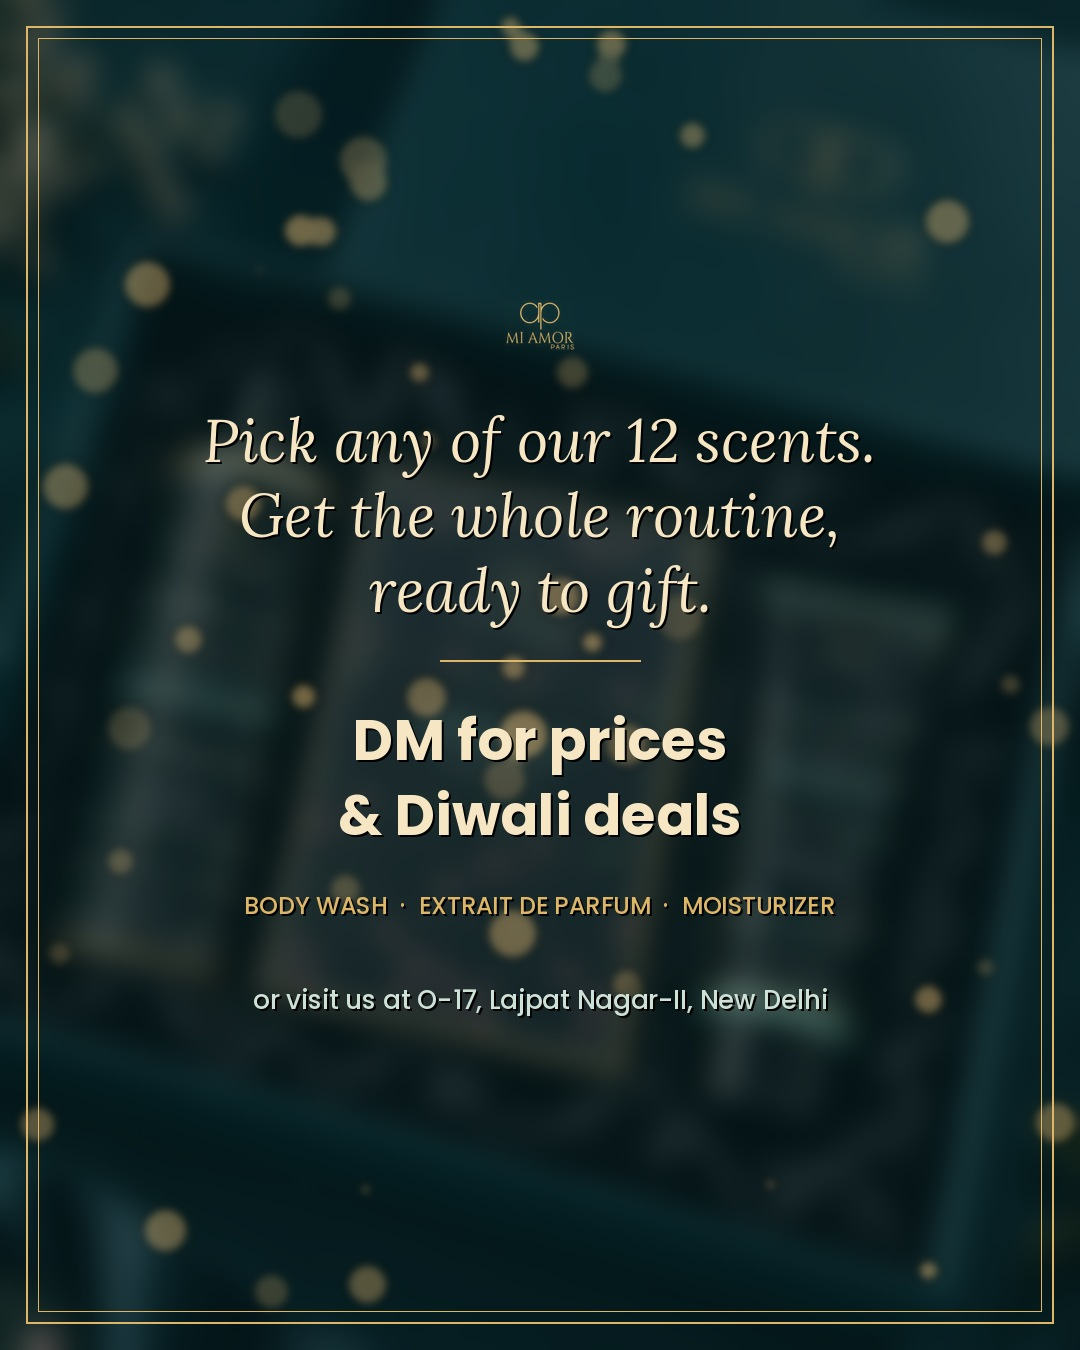
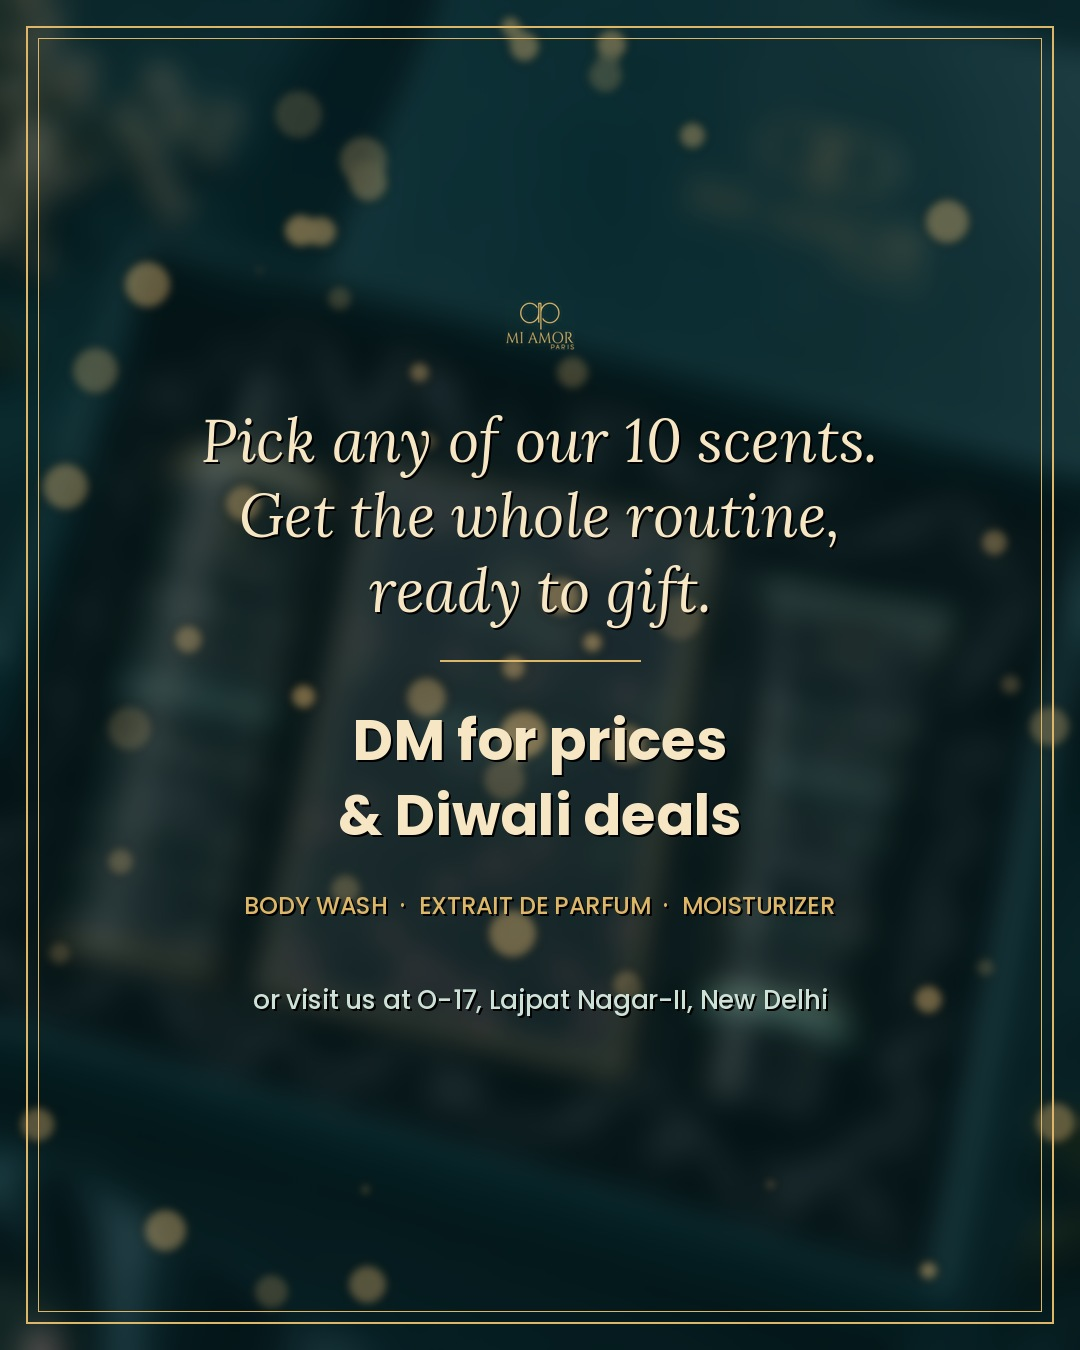
Gift boxes: 10 scents (no Ombre, no Miss Aqua)
Claude-Session: https://claude.ai/code/session_01QfcZgk1TCxQfFsu6yjKqLd

Changed region(s): [[0.1833, 0.3111, 0.7944, 0.3733]]

diff --git a/posts/2026-11-05-gift-boxes/build.py b/posts/2026-11-05-gift-boxes/build.py
@@ -1,4 +1,4 @@
-"""Diwali gift-box push: gift box in ANY of the 12 scents (Tannay), shown in Miss Poem and Bouquet (body wash + extrait de parfum + moisturizer), Tannay's own
+"""Diwali gift-box push: gift box in any of 10 scents (not Ombre, not Miss Aqua) (Tannay), shown in Miss Poem and Bouquet (body wash + extrait de parfum + moisturizer), Tannay's own
 styled photos (3 Nov). No prices: last slide 'DM for prices & Diwali deals'. Notes from the Shopify listings / weekly plan."""
 import random, numpy as np
 from PIL import Image, ImageDraw, ImageFont, ImageFilter
@@ -67,7 +67,7 @@ c(d, 196, "Body wash  ·  Extrait de parfum  ·  Moisturizer", pop(24), (200, 22
 bg = BQ.resize((1350, 1350), Image.LANCZOS).crop((135, 0, 1215, 1350)).filter(ImageFilter.GaussianBlur(14))
 im = Image.blend(bg, Image.new("RGB", bg.size, DTEAL), 0.55).convert("RGBA"); bokeh(im, (0, 0, W, H), 50, 5)
 frame(im); d = ImageDraw.Draw(im); logo(im, 70, 300)
-c(d, 440, "Pick any of our 12 scents.", lora(60, True), CHAMP); c(d, 515, "Get the whole routine,", lora(60, True), CHAMP); c(d, 590, "ready to gift.", lora(60, True), CHAMP)
+c(d, 440, "Pick any of our 10 scents.", lora(60, True), CHAMP); c(d, 515, "Get the whole routine,", lora(60, True), CHAMP); c(d, 590, "ready to gift.", lora(60, True), CHAMP)
 d.line((440, 660, 640, 660), fill=GOLD, width=2)
 c(d, 740, "DM for prices", pop(56, "Bold"), CHAMP); c(d, 815, "& Diwali deals", pop(56, "Bold"), CHAMP)
 c(d, 905, "BODY WASH  ·  EXTRAIT DE PARFUM  ·  MOISTURIZER", pop(24, "Medium"), GOLD)

diff --git a/ops/post_log.md b/ops/post_log.md
@@ -48,4 +48,4 @@ Note: carousels crop every slide to 4:5 (1080x1350). Make carousel slides and ca
 | 2026-11-01 19:30 | Handwash carousel MOVED from 30 Oct to make room for the Reel | Metricool 411107923 | scheduled |
 | 2026-11-02 19:30 | Feed: "Six evenings to Diwali" Oudh three-wick candle edit (Aleud, Abyad, Al Sandali, Alkhuzama, Zeenat e Oudh), 7-slide carousel (IG + FB) | Metricool 412766569 | scheduled 1 Nov by daily task; ₹1,749 (was ₹3,499) verified live. 2 Nov Stories already booked 28 Oct (IG only): 408820612, 408829335; their prices re-checked live (LIITA ₹1,999, Mr Aqua ₹1,499) |
 | 2026-11-03 19:30 | Feed: "Marhaba, the Diwali-party scent for him" (perfume 100 ml, Oudh shower gel 500 ml, 8 ml mini), 5-slide carousel (IG + FB), wine/gold rangoli + firework look | Metricool 414880060 (was 413712313, 414871718, 414877572; last slide now shower gel instead of 8 ml) | 3 Nov: REBUILT per Tannay as "Marhaba: Arabian nights, bottled" (unisex, Arabian set, no white backgrounds, + Oudh moisturizer, 5 slides); prices REMOVED from slides and caption per Tannay, last slide "DM for prices & Diwali deals". Originally scheduled 2 Nov by daily task; ₹1,499 (was ₹2,999), ₹749 (was ₹1,499), ₹199 (was ₹399) verified live. 3 Nov Stories already booked 28 Oct (IG only): 408820634, 408829361; prices re-checked live (Moksha ₹1,999, Mr Aqua ₹1,499, Moksha body wash ₹999) |
-| 2026-11-05 18:00 | Feed: "Diwali, beautifully boxed" gift boxes (Miss Poem box, Bouquet box), 4-slide carousel (IG + FB), Tannay's own photos | Metricool 414891003 (was 414888125) | scheduled 3 Nov at Tannay's request; gift box comes in ANY of the 12 scents (Miss Poem/Bouquet shown as examples); no prices, "DM for prices & Diwali deals". Replaces the minis post planned for Thu 5 Nov (minis move later). Gift boxes are NOT listed on Shopify, so no "link in bio" |
+| 2026-11-05 18:00 | Feed: "Diwali, beautifully boxed" gift boxes (Miss Poem box, Bouquet box), 4-slide carousel (IG + FB), Tannay's own photos | Metricool 414891003 (was 414888125) | scheduled 3 Nov at Tannay's request; gift box comes in 10 scents (not Ombré, not Miss Aqua) (Miss Poem/Bouquet shown as examples); no prices, "DM for prices & Diwali deals". Replaces the minis post planned for Thu 5 Nov (minis move later). Gift boxes are NOT listed on Shopify, so no "link in bio" |

diff --git a/ops/PLAYBOOK.md b/ops/PLAYBOOK.md
@@ -57,7 +57,7 @@ Warm, a little romantic, confident; a friend who knows fragrance. English
   `ops/price_backup_before_diwali.csv` for switching back.
 
 ## Gift boxes (Tannay, 3 Nov)
-- Body wash + extrait de parfum + moisturizer gift box, available in ANY of the 12 scents ("get the whole routine"). Not listed on Shopify yet: sell via DM / store, prices by DM.
+- Body wash + extrait de parfum + moisturizer gift box, available in 10 scents (all except Ombré and Miss Aqua) ("get the whole routine"). Not listed on Shopify yet: sell via DM / store, prices by DM.
 
 ## Best-sellers and what the ad data says
 - Best-sellers: Moksha, Hold Mi (men); Ombré, Bouquet (women).
